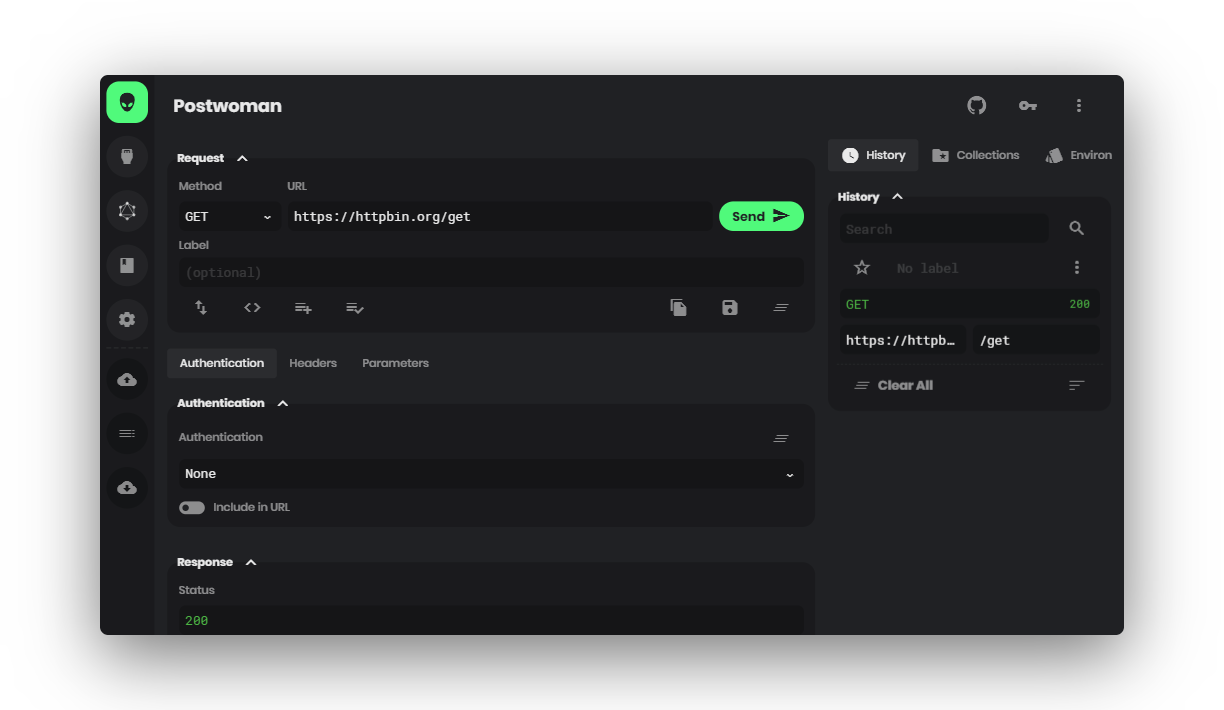
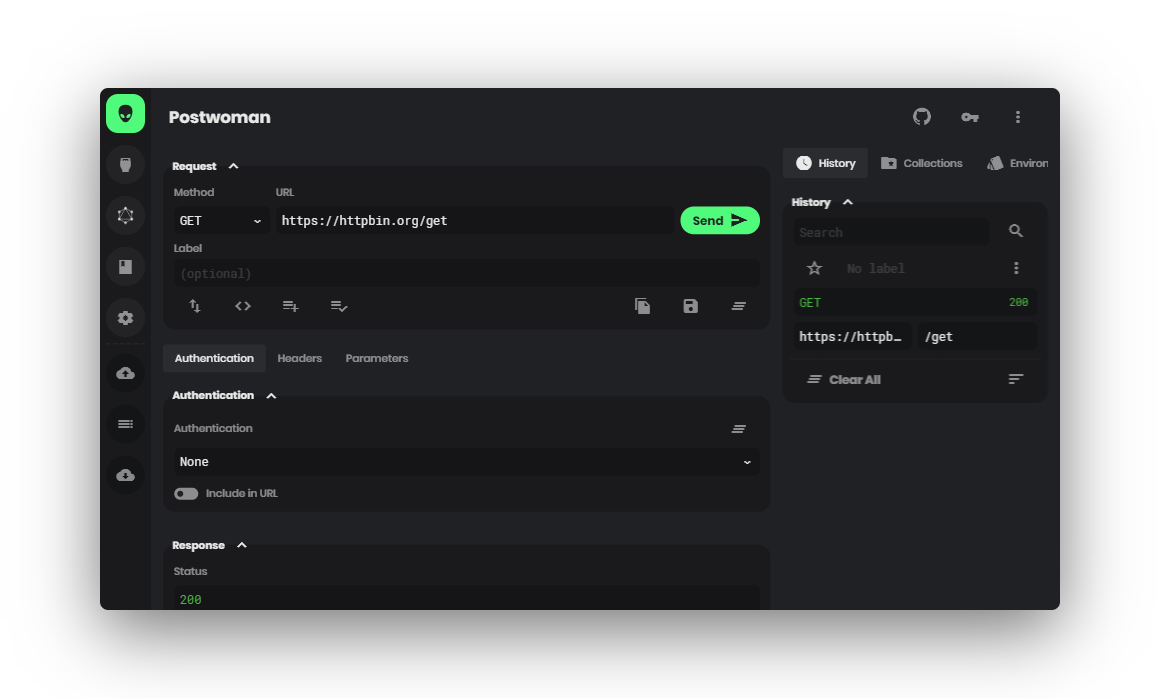
:bug: Fixed issues with sync, squashed a bug introduced in last transpile

diff --git a/components/collections/importExportCollections.vue b/components/collections/importExportCollections.vue
@@ -122,6 +122,7 @@ export default {
         }
         this.$store.commit("postwoman/importCollections", collections)
         this.fileImported()
+        this.syncToFBCollections()
       }
       reader.readAsText(this.$refs.inputChooseFileToReplaceWith.files[0])
     },
@@ -142,6 +143,7 @@ export default {
         }
         this.$store.commit("postwoman/importCollections", collections)
         this.fileImported()
+        this.syncToFBCollections()
       }
       reader.readAsText(this.$refs.inputChooseFileToImportFrom.files[0])
     },
@@ -166,6 +168,13 @@ export default {
     syncCollections() {
       this.$store.commit("postwoman/replaceCollections", fb.currentCollections)
       this.fileImported()
+    },
+    syncToFBCollections() {
+      if (fb.currentUser !== null) {
+        if (fb.currentSettings[0].value) {
+          fb.writeCollections(JSON.parse(JSON.stringify(this.$store.state.postwoman.collections)))
+        }
+      }
     },
     fileImported() {
       this.$toast.info(this.$t("file_imported"), {

diff --git a/store/postwoman.js b/store/postwoman.js
@@ -138,9 +138,11 @@ export const mutations = {
   },
 
   importAddEnvironments(state, { environments, confirmation }) {
-    const duplicateEnvironment = environments.some(({ name }) =>
-      state.environments.some(({ name }) => name.toLowerCase() === name.toLowerCase())
-    )
+    const duplicateEnvironment = environments.some((item) => {
+      return state.environments.some((item2) => {
+        return item.name.toLowerCase() === item2.name.toLowerCase()
+      })
+    })
     if (duplicateEnvironment) {
       this.$toast.info("Duplicate environment")
       return

diff --git a/components/environments/importExportEnvironment.vue b/components/environments/importExportEnvironment.vue
@@ -168,10 +168,18 @@ export default {
       this.$store.commit("postwoman/replaceEnvironments", fb.currentEnvironments)
       this.fileImported()
     },
+    syncToFBEnvironments() {
+      if (fb.currentUser !== null) {
+        if (fb.currentSettings[1].value) {
+          fb.writeEnvironments(JSON.parse(JSON.stringify(this.$store.state.postwoman.environments)))
+        }
+      }
+    },
     fileImported() {
       this.$toast.info(this.$t("file_imported"), {
         icon: "folder_shared",
       })
+      this.syncToFBEnvironments()
     },
   },
 }

diff --git a/components/environments/editEnvironment.vue b/components/environments/editEnvironment.vue
@@ -135,7 +135,7 @@ export default {
     }
   },
   watch: {
-    editingEnvironment: function(update) {
+    editingEnvironment: function (update) {
       this.name =
         this.$props.editingEnvironment && this.$props.editingEnvironment.name
           ? this.$props.editingEnvironment.name
@@ -210,8 +210,8 @@ export default {
       this.syncEnvironments()
     },
     hideModal() {
-      this.$data.name = undefined
       this.$emit("hide-modal")
+      this.$data.name = undefined
     },
   },
 }

diff --git a/components/collections/addFolder.vue b/components/collections/addFolder.vue
@@ -64,6 +64,14 @@ export default {
         collectionIndex: this.$props.collectionIndex,
       })
       this.hideModal()
+      this.syncCollections()
+    },
+    syncCollections() {
+      if (fb.currentUser !== null) {
+        if (fb.currentSettings[0].value) {
+          fb.writeCollections(JSON.parse(JSON.stringify(this.$store.state.postwoman.collections)))
+        }
+      }
     },
     hideModal() {
       this.$emit("hide-modal")

diff --git a/components/environments/addEnvironment.vue b/components/environments/addEnvironment.vue
@@ -84,8 +84,8 @@ export default {
       this.syncEnvironments()
     },
     hideModal() {
-      this.$data.name = undefined
       this.$emit("hide-modal")
+      this.$data.name = undefined
     },
   },
 }

diff --git a/README.md b/README.md
@@ -1,5 +1,5 @@
 <div align="center">
-  <a href="https://postwoman.io"><img src="static/logo.png" alt="Postwoman.io logo" height="160"></a>
+  <a href="https://postwoman.io"><img src="https://raw.githubusercontent.com/liyasthomas/postwoman/master/static/logo.png" alt="Postwoman.io logo" height="160"></a>
   <br>
   <br>
   <p>
@@ -8,7 +8,7 @@
   <p>
      <i>Web alternative to Postman - Helps you create requests faster, saving precious time on development - <a href="https://postwoman.launchaco.com">Subscribe</a></i>
   </p>
-  <p>
+  <p style="width: 80%;">
 
 [![Travis Build Status](https://img.shields.io/travis/com/liyasthomas/postwoman?logo=Travis)](https://travis-ci.com/liyasthomas/postwoman) [![GitHub release](https://img.shields.io/github/release/liyasthomas/postwoman/all?logo=GitHub)](https://github.com/liyasthomas/postwoman/releases/latest) [![Website](https://img.shields.io/website?url=https%3A%2F%2Fpostwoman.io&logo=Postwoman)](https://postwoman.io) [![Contributions welcome](https://img.shields.io/badge/contributions-welcome-brightgreen)](CONTRIBUTING.md) [![Financial Contributors on Open Collective](https://img.shields.io/opencollective/all/postwoman?logo=Open-Collective&label=financial+contributors)](https://opencollective.com/postwoman) [![Donate on PayPal](https://img.shields.io/badge/support-PayPal-blue?logo=PayPal)](https://www.paypal.me/liyascthomas) [![Chat on Telegram](https://img.shields.io/badge/chat-Telegram-blueviolet?logo=Telegram)](https://t.me/postwoman_app) [![Chat on Discord](https://img.shields.io/badge/chat-Discord-violet?logo=discord)](https://discord.gg/GAMWxmR) [![Tweet](https://img.shields.io/twitter/url?url=https%3A%2F%2Fpostwoman.io%2F)](https://twitter.com/intent/tweet?url=https%3A%2F%2Fpostwoman.io&text=%F0%9F%91%BD%20Postwoman%20%E2%80%A2%20API%20request%20builder%20-%20Helps%20you%20create%20your%20requests%20faster%2C%20saving%20you%20precious%20time%20on%20your%20development&original_referer=https%3A%2F%2Ftwitter.com%2Fshare%3Ftext%3D%25F0%259F%2591%25BD%2520Postwoman%2520%25E2%2580%25A2%2520API%2520request%2520builder%2520-%2520Helps%2520you%2520create%2520your%2520requests%2520faster%2C%2520saving%2520you%2520precious%2520time%2520on%2520your%2520development%26url%3Dhttps%3A%2F%2Fpostwoman.io%26hashtags%3Dpostwoman%26via%3Dliyasthomas&via=liyasthomas&hashtags=postwoman)
 
@@ -30,10 +30,30 @@
 **Donate: [Open Collective](https://opencollective.com/postwoman), [PayPal](https://www.paypal.me/liyascthomas), [Patreon](https://www.patreon.com/liyasthomas), [:octocat: GitHub Sponsors](https://github.com/sponsors/postwoman-io)**
 
 <div align="center">
-  <br>
-  <a href="https://postwoman.io"><img src="static/images/screenshot1.png" alt="Screenshot1" width="100%"></a>
-  <br>
+  <a href="https://postwoman.io"><img src="https://raw.githubusercontent.com/liyasthomas/postwoman/master/static/images/screenshot1.png" alt="Screenshot1" width="100%"></a>
 </div>
+
+<details>
+  <summary>Table of contents</summary>
+
+---
+1. [Features](#features-)
+2. [Demo](#demo--)
+3. [Usage](#usage-)
+4. [Built with](#built-with-)
+5. [Developing](#developing-)
+6. [Docker](#docker--)
+7. [Releasing](#releasing-)
+8. [Contributing](#contributing-)
+9. [Continuous Integration](#continuous-integration--)
+10. [Versioning](#versioning--)
+11. [Change log](#change-log-)
+12. [Authors](#authors-)
+13. [License](#license-)
+14. [Acknowledgements](#acknowledgements-)
+15. [Badges](#badges-)
+---
+</details>
 
 ### Features ✨
 
@@ -324,7 +344,7 @@ docker run -p 3000:3000 liyasthomas/postwoman:latest
 docker build -t postwoman:latest
 ```
 
-## Releasing 🏷
+## Releasing 🧞
 
 1. [Clone this repo](https://help.github.com/en/articles/cloning-a-repository) with git.
 2. Install dependencies by running `npm install` within the directory that you cloned (probably `postwoman`).
@@ -347,7 +367,7 @@ This project is developed by [Liyas Thomas](https://github.com/liyasthomas) usin
 
 See the [CHANGELOG](CHANGELOG.md) file for details.
 
-## Authors 🔮
+## Authors 🧙
 
 ### Lead Developers
 
@@ -441,7 +461,7 @@ This project is licensed under the [MIT License](https://opensource.org/licenses
 - Inspirations:
   - [Dribbble](https://dribbble.com)
 
-## Badges
+## Badges 📛
 
 <table>
 	<tr>
